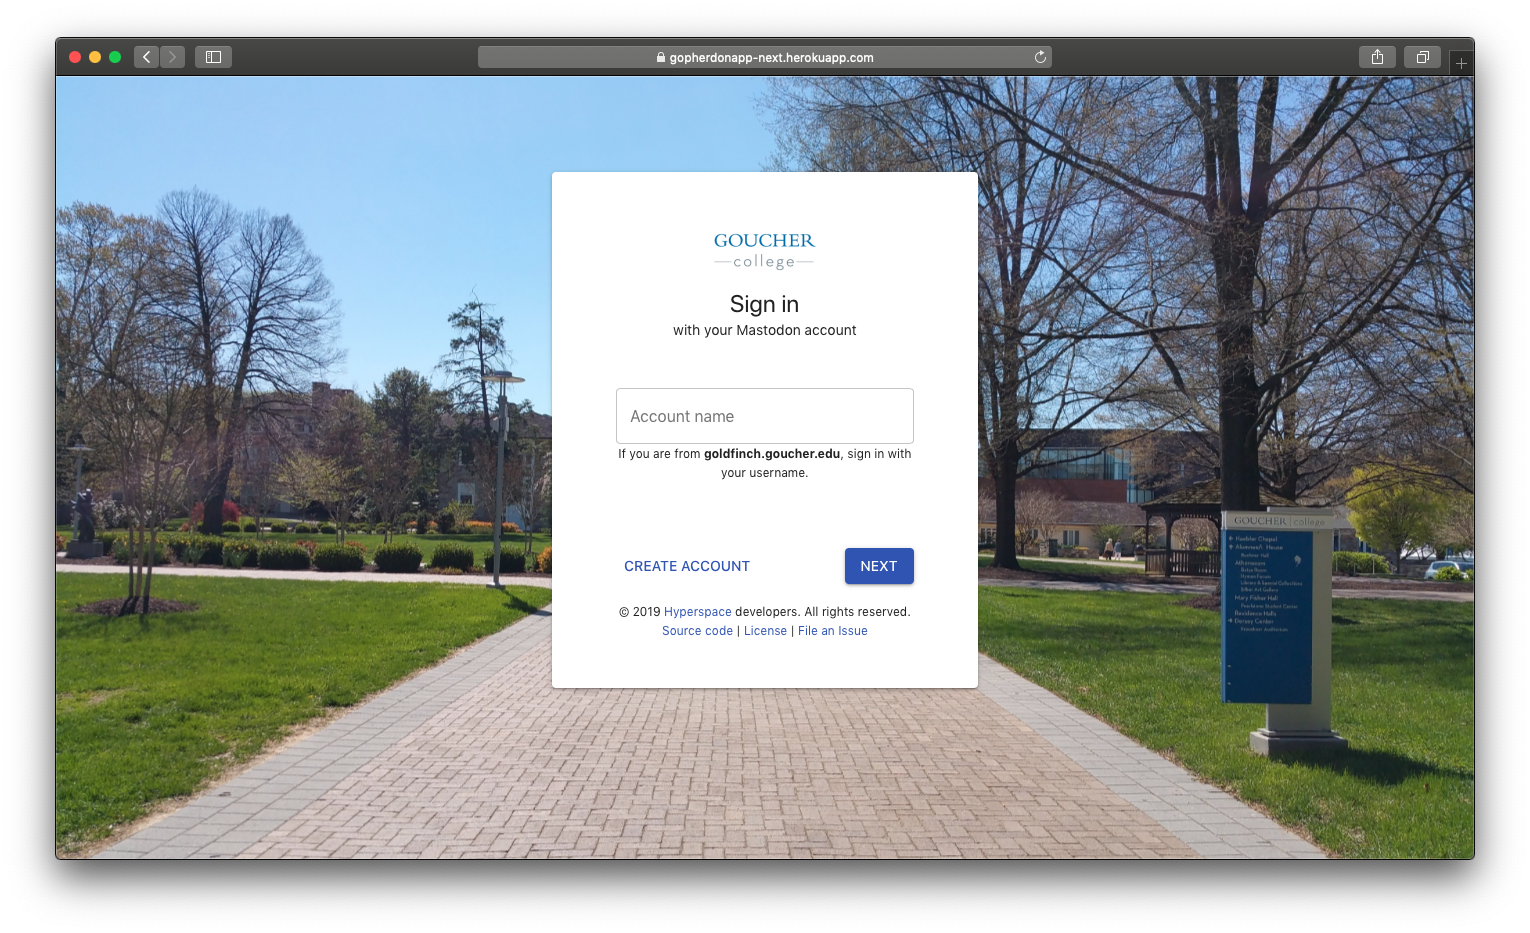
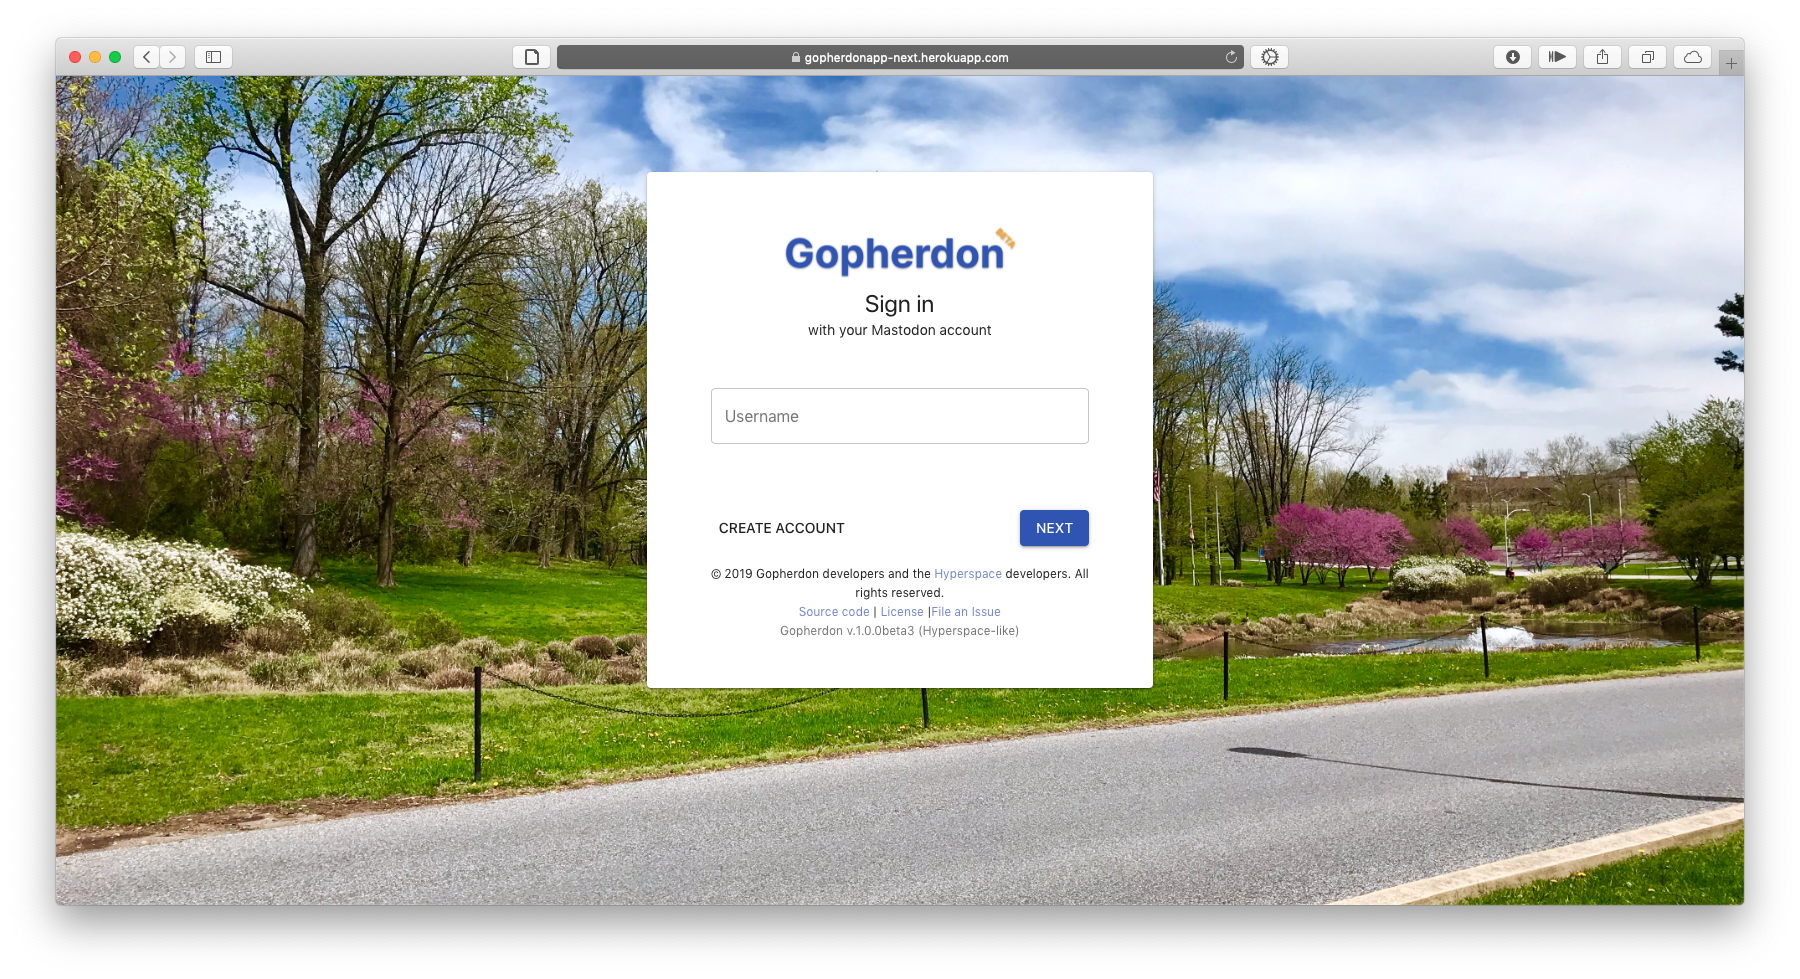
Update based on 1.0.0beta3

diff --git a/src/pages/docs/configuring-hyperspace/index.md b/src/pages/docs/configuring-hyperspace/index.md
@@ -36,6 +36,8 @@ There are some extra keys for handling actions such as federation, registrations
 | `registration` | n/a | Information regarding registration of the instance. See below for more information |
 | `admin` | n/a | The administrator that installed Hyperspace. |
 
+> Note: As of [Hyperspace 1.0.0beta3](https://github.com/hyperspacedev/hyperspace/releases/tag/1.0.0beta3)+, the `federated` key also controls other settings, including the default visibility of new posts, and also restricts login to the instance listed in `defaultInstance`.
+
 ### Registration information
 
 | Subkey | Default value | Description |
@@ -69,7 +71,7 @@ There are other fields responsible for handling app information such as version,
 | Key | Default value | Description |
 | -- | -- | -- |
 | `developer` | "false" | Whether the app should be run in developer mode or not. This helps distinguish between a stable release and a beta release for users. |
-| `version` | **Required:** Hyperspace version as a string | The version of the application. |
+| `version` | Hyperspace version as a string | **Required:** The version of the application. |
 | `license` | n/a | **Required:** The license information for the app, if it falls under a different license than what Hyperspace includes. |
 | `repository` | "https&#58;//github.com/hyperspacedev/hyperspace" | The URL to the repository containing the source code if it is open-source. |
 | `location` | "dynamic" | **Required:** The URL that points to your Hyperspace installation, or 'dynamic' if it should be inferred from `window.location`. |

diff --git a/src/pages/docs/whats-new-beta/index.md b/src/pages/docs/whats-new-beta/index.md
@@ -4,8 +4,28 @@ path: /docs/whats-new-beta
 description: 'Read about the latest features, improvements, changes, and bug fixes coming to Hyperspace (currently in beta).'
 priority: 0
 ---
+# 1.0.0beta3 (May 3, 2019)
 
-# 1.0.0beta2u2 (April 26, 2018)
+What's new:
+
+- Login screen changes include a new version string and a fixed Authorize button (fixes #24).
+  - Changes login text from "If you are from X" to "Not from X?".
+- Enforce stricter rules on when an instance is defederated in config.json (fixes #28):
+  - Default visibility changes from public to unlisted and cannot be changed to public in settings.
+  - Login page only allows to log in to instance from `registerBase`.
+- Makes updates to CSS and themes:
+  - Fix narrow margins on mobile devices (fixes #27).
+  - Remove the Royal II (King) theme and replace with Classic theme.
+  - Update colors for Attract theme to prevent CSS collisions (fixes #26).
+  - Settings menu includes new icons for clarity and ease-of-discoverability (fix #30).
+- Brand name is applied to more places in Hyperspace and changes Hyperspace app name in login process (fixes #34).
+- Addresses issue where media upload snackbars didn't dismiss properly (fixes #32).
+- Adds a Settings menu for editing profiles within Hyperspace and a new page at `/you` to edit a user's avatar, header, display name, and bio (fixes #14).
+
+
+-----
+
+# 1.0.0beta2u2 (April 26, 2019)
 
 What's new:
 

diff --git a/src/pages/docs/getting-started/index.md b/src/pages/docs/getting-started/index.md
@@ -16,7 +16,7 @@ To use the pre-built files, download them from our site and then place the conte
 ### Requirements
 
 - Git
-- Node.js 6 or higher
+- Node.js 8 or higher
 
 First, you'll need to download the Hyperspace source code, either by downloading the source code package from our site or cloning the Git repository:
 
